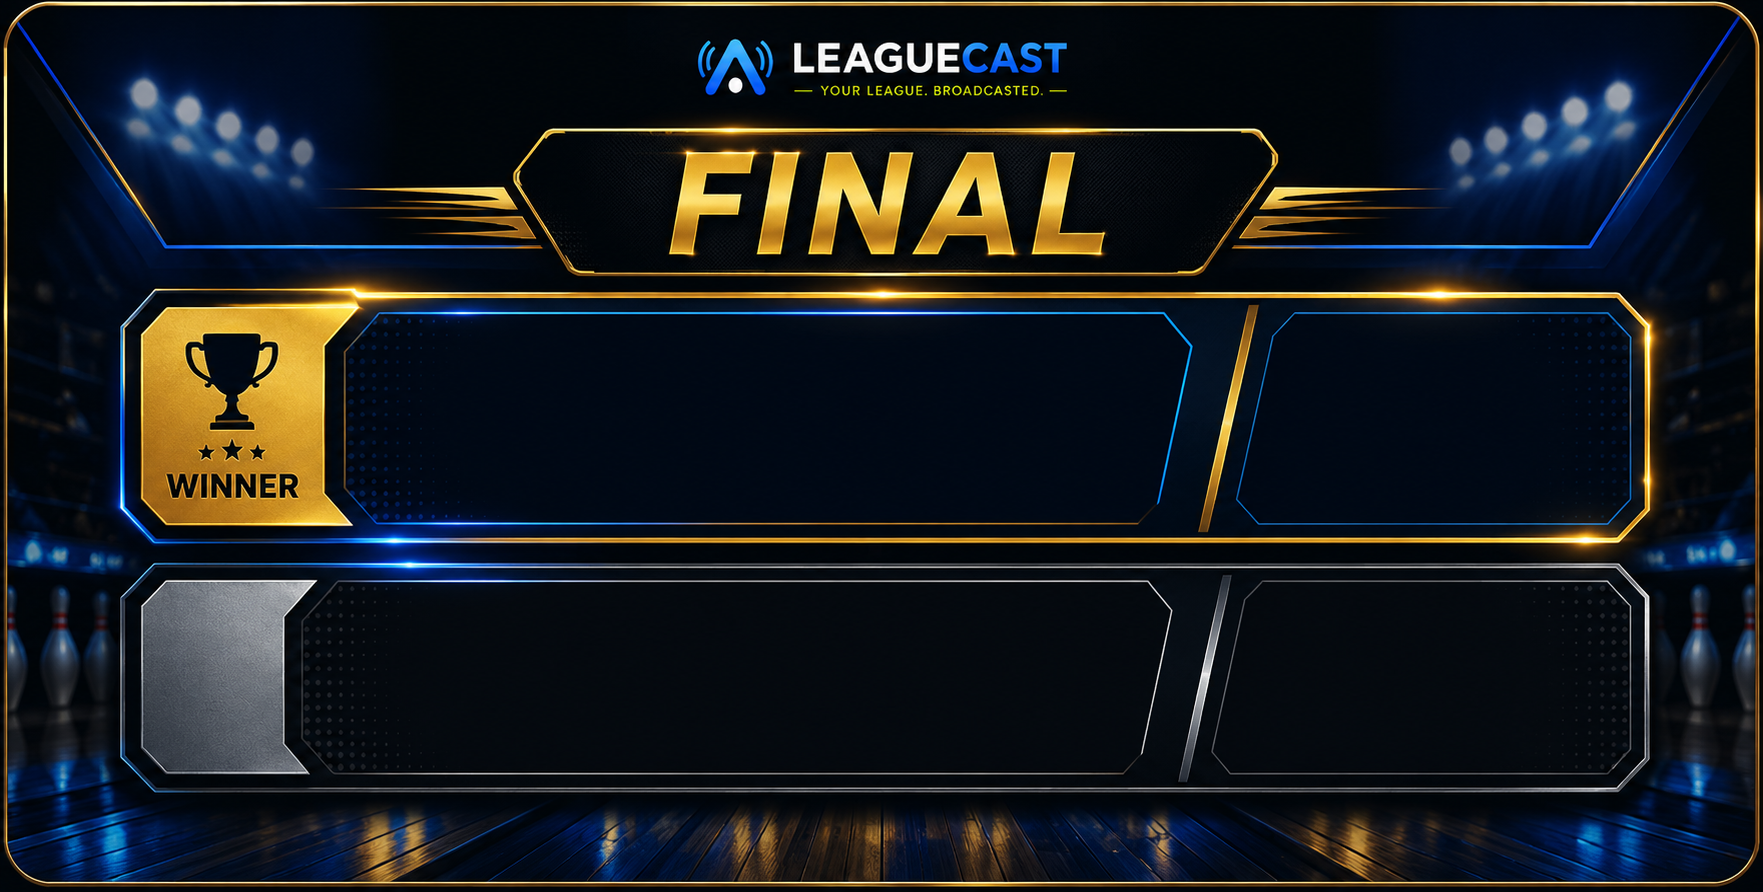
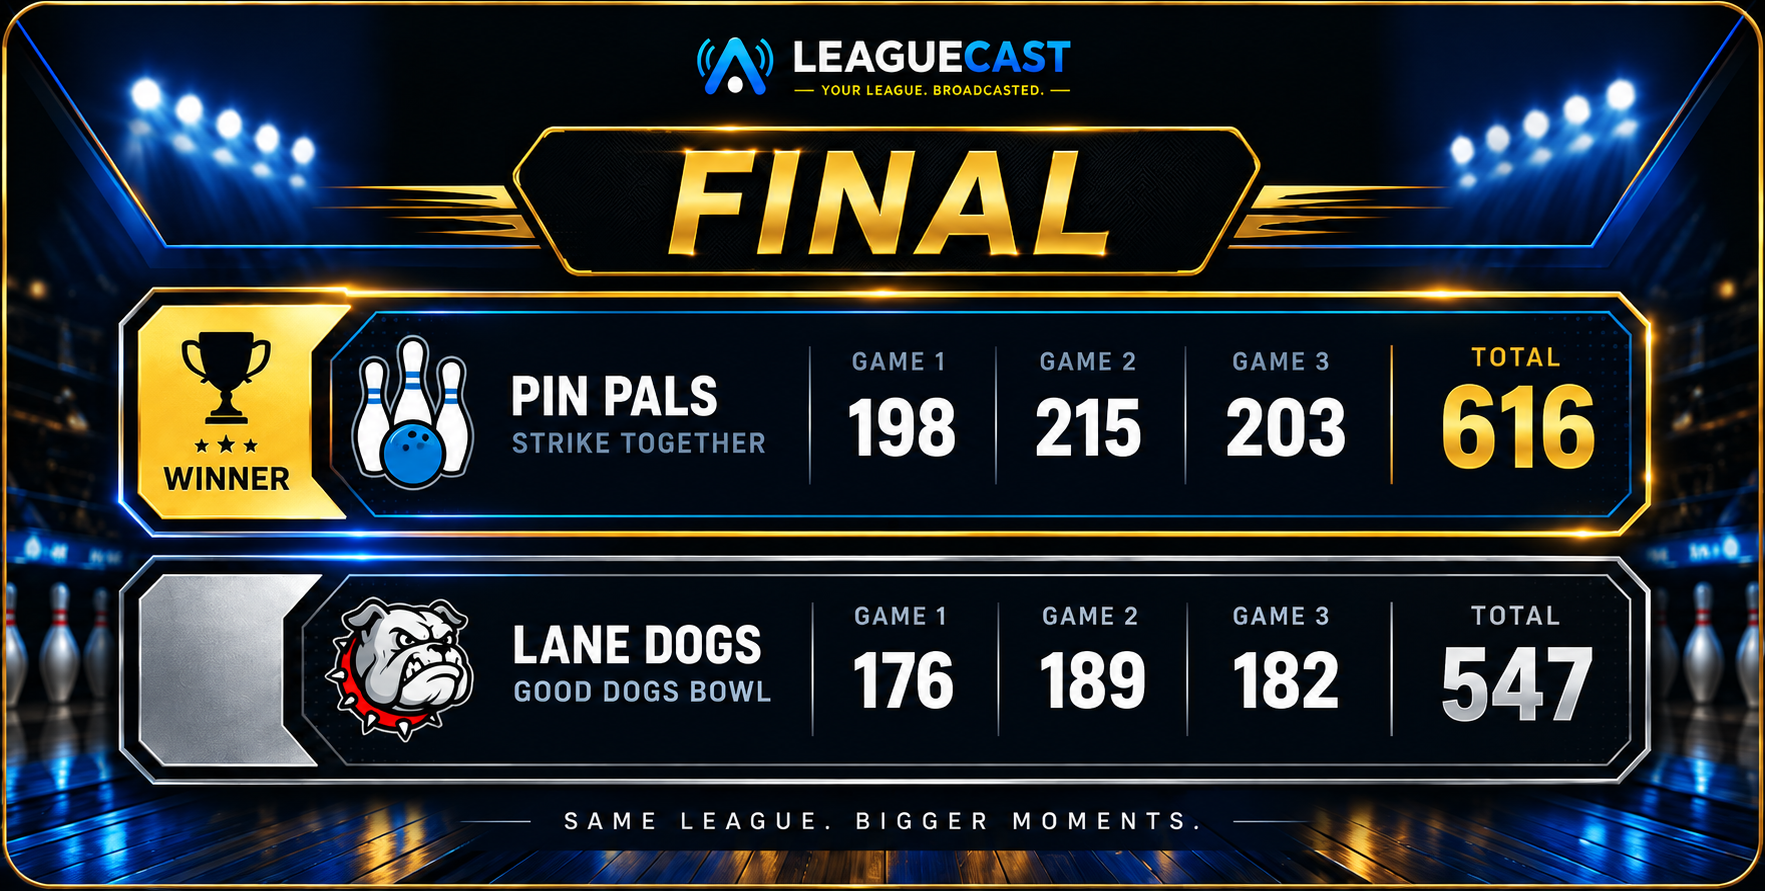
Move League Night proof into hero, populate FINAL scoreboard, tighten copy

diff --git a/projects/leaguecast/index.html b/projects/leaguecast/index.html
@@ -18,8 +18,8 @@
   <main id="main">
     <section class="hero">
       <div class="container hero__grid">
-        <div><a href="/projects/" class="back-link">← All products</a><span class="eyebrow eyebrow--leaguecast">Your League. Broadcasted.</span><h1>Run the league. Follow the story.</h1><p class="hero__lede">LeagueCast runs live bowling leagues from setup to standings, then gives every captain and player a reason to check in between weeks—scores, stats, and storylines that stay connected all season long.</p><div class="status-pair"><span class="pill pill--leaguecast">Bowling · Live on iOS</span></div><div class="hero__actions"><a class="button button--primary" href="#invite-them">See how it works</a><a class="button button--secondary" href="/projects/leaguecast/watch/">See LeagueCast in Action</a><a class="button button--secondary" href="mailto:contact@peakdownload.com?subject=LeagueCast">Contact PeakDownload</a></div></div>
-        <div class="hero-brand"><div class="hero-brand__frame hero-brand__frame--landscape hero-brand__frame--product"><img src="/public/products/leaguecast/leaguecast-standings-hero.jpg" width="1272" height="1950" alt="The LeagueCast app open on a phone at a bowling alley, showing live team standings for a recreational league"></div></div>
+        <div><a href="/projects/" class="back-link">← All products</a><span class="eyebrow eyebrow--leaguecast">Your League. Broadcasted.</span><h1>Run the league. Follow the story.</h1><p class="hero__lede">LeagueCast turns League Night into a broadcast—live scores, standings, and results presented the way real sports look, right on the phone in your hand. Captains and players get a reason to check in all season long.</p><div class="status-pair"><span class="pill pill--leaguecast">Bowling · Live on iOS</span></div><div class="hero__actions"><a class="button button--primary" href="#invite-them">See how it works</a><a class="button button--secondary" href="/projects/leaguecast/watch/">See LeagueCast in Action</a><a class="button button--secondary" href="mailto:contact@peakdownload.com?subject=LeagueCast">Contact PeakDownload</a></div></div>
+        <div class="hero-brand"><div class="hero-brand__frame hero-brand__frame--landscape hero-brand__frame--product"><img src="/public/products/leaguecast/leaguecast-league-night-sponsor.png" width="912" height="1724" alt="The LeagueCast app's League Night screen for Week 4, showing the featured matchup and a River City Dental sponsor banner"></div></div>
       </div>
     </section>
 
@@ -55,8 +55,7 @@
         <figure class="product-gallery__item"><img src="/public/products/leaguecast/leaguecast-team-detail-screen.png" width="1272" height="2796" loading="lazy" alt="The LeagueCast app's Team Detail screen, showing a team's rank, record, points, and season performance chart"><figcaption><strong>Team detail</strong><span>Season performance, match history, and form at a glance.</span></figcaption></figure>
       </div></div></section>
 
-    <section class="section" id="showcase-it"><div class="container"><div class="marketing-feature"><div class="marketing-feature__copy"><span class="eyebrow eyebrow--leaguecast">Showcase It</span><h2>Turn league night into a broadcast.</h2><p>League Night looks like a broadcast, not a spreadsheet—team standings, live scores, and results presented the way real sports look, right on the phone in your hand.</p></div><figure class="marketing-art"><img src="/public/products/leaguecast/leaguecast-league-night-broadcast.png" width="1024" height="1536" loading="lazy" alt="A LeagueCast marketing card reading 'Bring League Night Alive' over a photo of three bowlers checking live standings on a phone at the lanes"></figure></div>
-      <div class="marketing-feature" style="margin-top:56px"><div class="marketing-feature__copy"><h3>Every win gets its moment.</h3><p>Final results get the same broadcast treatment as the rest of the league—win, and it shows.</p><p style="margin-top:28px"><strong>Make the league worth sponsoring.</strong> Commissioners can add sponsor branding to the league experience—a place for a local business to show up alongside the standings, results, and League Night presentation players are already checking. One sponsor can potentially help offset the cost of running the season.</p></div><figure class="marketing-art"><img src="/public/products/leaguecast/leaguecast-final-broadcast-frame.png" width="1763" height="892" loading="lazy" alt="A LeagueCast broadcast-style 'Final' scoreboard frame for presenting match results"></figure></div>
+    <section class="section" id="showcase-it"><div class="container"><div class="section-heading"><span class="eyebrow eyebrow--leaguecast">Showcase It</span><h2>Every win gets its moment.</h2><p>Final results get the same broadcast treatment as the rest of the league.</p><p style="margin-top:14px"><strong>Make the league worth sponsoring.</strong> Commissioners can add a sponsor banner right inside League Night. One sponsor can help offset the cost of running the season.</p></div><figure class="marketing-art marketing-art--wide"><img src="/public/products/leaguecast/leaguecast-final-broadcast-frame.png" width="1765" height="891" loading="lazy" alt="A LeagueCast broadcast-style 'Final' scoreboard showing Pin Pals defeating Lane Dogs 616 to 547"></figure>
     </div></section>
 
     <section class="section section--blend" id="remember-it"><div class="container"><div class="section-heading"><span class="eyebrow eyebrow--leaguecast">Remember It</span><h2>One league. Season after season.</h2><span class="pill pill--leaguecast">Coming Soon</span><p>Your league history shouldn't disappear when the season ends. LeagueCast keeps the story connected from one season to the next.</p></div></div></section>
@@ -65,7 +64,7 @@
 
     <section class="section section--blend"><div class="container"><div class="section-heading"><span class="eyebrow">FAQ</span><h2>LeagueCast questions.</h2></div><div class="faq-grid">
       <article class="faq-card"><h3>What is LeagueCast?</h3><p>LeagueCast is a live recreational league platform for scores, schedules, matchups, standings, player results, and league-night coverage.</p></article>
-      <article class="faq-card"><h3>Is LeagueCast only for bowling?</h3><p>Bowling is the first supported sport. LeagueCast was designed as a broader multi-sport scoring platform, with golf, darts, cornhole, pickleball, and other recreational league formats in view as it grows.</p></article>
+      <article class="faq-card"><h3>Is LeagueCast only for bowling?</h3><p>Bowling is the first supported sport. Other recreational league sports are future opportunities, not available features today.</p></article>
       <article class="faq-card"><h3>Can LeagueCast support our scoring format?</h3><p>LeagueCast supports structured, league-specific scoring rather than forcing every league into one generic model. Contact PeakDownload to evaluate custom scoring options for your league.</p></article>
       <article class="faq-card"><h3>Can teams compete from different locations?</h3><p>Yes. Teams can bowl at different locations while scores, matchups, and standings remain synchronized.</p></article>
       <article class="faq-card"><h3>Do all players need to be in the same building?</h3><p>No. Teams and players can compete from different locations on the same shared schedule. A traditional, single-location league works exactly the same way—LeagueCast doesn't ask a league to change how it already plays.</p></article>

diff --git a/assets/css/styles.css b/assets/css/styles.css
@@ -195,6 +195,7 @@ ul { margin: 0; padding: 0; list-style: none; }
   background: var(--panel-strong); box-shadow: var(--shadow);
 }
 .marketing-art img { width: 100%; object-fit: contain; }
+.marketing-art--wide { max-width: 900px; margin-inline: auto; }
 .product-gallery {
   display: grid; grid-template-columns: repeat(3, minmax(0,1fr)); gap: 18px; margin-top: 32px;
 }
